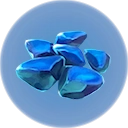
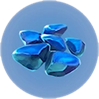
edited images and fixed first half or crafting page

diff --git a/pages/crafting.html b/pages/crafting.html
@@ -8,6 +8,7 @@
     <title>Crafting | Subnepedia</title>
     <link rel="stylesheet" href="/css/main.css">
     <link rel="stylesheet" href="/css/css-pages/crafting.css">
+    <link rel="stylesheet" href="/css/css-pages/items.css">
     <!-- Bootstrap Icons -->
     <script src="https://kit.fontawesome.com/1d56e9de16.js" crossorigin="anonymous"></script>
     <!-- Icon -->
@@ -48,46 +49,145 @@
     <!-- end -->
     <!-- Header -->
     <header class="crafting-header hero">
-        <h1 class="custom-font page-title hero-text">Crafting</h1>
+        <h1 class="custom-font page-header hero-text">Crafting</h1>
         <div class="color-overlay"></div>
     </header>
     <!-- End -->
 
     <!-- Overview -->
-    <section class="overview mt-2 mb-5">
+    <section class="overview mt-2 mb-3">
         <div class="container">
             <h2 class="custom-font page-title">Overview</h2>
             <div class="overview-text">
-                <p>Lorem ipsum dolor sit amet, consectetur adipiscing elit. Etiam eu turpis molestie, dictum est a,
-                    mattis
-                    tellus. Sed dignissim, metus nec fringilla accumsan, risus sem sollicitudin lacus, ut interdum
-                    tellus
-                    elit sed risus. Maecenas eget condimentum velit, sit amet feugiat lectus. Class aptent taciti
-                    sociosqu
-                    ad litora torquent per conubia nostra, per inceptos himenaeos. Praesent auctor purus luctus enim
-                    egestas, ac scelerisque ante pulvinar. Donec ut rhoncus ex. Suspendisse ac rhoncus nisl, eu tempor
-                    urna.
-                    Curabitur vel bibendum lorem. Morbi convallis convallis diam sit amet lacinia. Aliquam in elementum
-                    tellus.</p>
+                <p>In Subnautica, you can make a lot of different things. Everything from basic materials to food to
+                    electronics to vehicles can be included. It can be tough to remember or even find recipes when there
+                    is such a wide range of possibilities for crafting and creating new things.</p>
                 <br>
-                <p>Curabitur tempor quis eros tempus lacinia. Nam bibendum pellentesque quam a convallis. Sed ut
-                    vulputate
-                    nisi. Integer in felis sed leo vestibulum venenatis. Suspendisse quis arcu sem. Aenean feugiat ex eu
-                    vestibulum vestibulum. Morbi a eleifend magna. Nam metus lacus, porttitor eu mauris a, blandit
-                    ultrices
-                    nibh. Mauris sit amet magna non ligula vestibulum eleifend. Nulla varius volutpat turpis sed
-                    lacinia.
-                    Nam eget mi in purus lobortis eleifend. Sed nec ante dictum sem condimentum ullamcorper quis
-                    venenatis
-                    nisi. Proin vitae facilisis nisi, ac posuere leo.</p>
+                <p>Crafting Guide will ensure that you are familiar with practically all of the game's recipes. This
+                    will be your go-to resource for learning how to make the next thing you'll need for survival.</p>
                 <br>
-                <p>Nam pulvinar blandit velit, id condimentum diam faucibus at. Aliquam lacus nisi, sollicitudin at nisi
-                    nec, fermentum congue felis. Quisque mauris dolor, fringilla sed tincidunt ac, finibus non odio.
+                <p>Basic Materials, Sustenance, Vehicles, and Scanner Room are among the categories in which the things
+                    are classified. You need each of these categories and you must know how to put together anything you
+                    need from a specific one.
+
+                    Because you'll be using the Fabricator to make the majority of your items, it's better if you know
+                    how to make one first. To make a Fabricator, mix Titanium, Gold, and Table Coral Sample to make a
+                    Builder, which can then be transformed into a Fabricator. After that, you can concentrate on
+                    crafting food, tools, equipment, and machines using it.
                 </p>
             </div>
         </div>
     </section>
-
+    <section class="section-1 my-5">
+        <div class="container">
+            <h1 class="custom-font page-title materials-header">Materials</h1>
+            <p class="materials-text"> Subnautica contains a wide variety of materials, ranging from basic titanium to
+                rare and valuable diamonds. However, with the exception of mercury, most of the resources can be used in
+                crafting recipes.
+                Outcrops provide the next set of very useful materials (limestone, sandstone, basalt, shale, and so on).
+                These materials are helpful in the ways that they are used. They can be used to make electronic
+                components such as copper wire and computer chips, which are extremely useful.
+                Quartz is also useful since it can be used to manufacture glass, which can be utilized to make survival
+                tools and base building components.Lithium, diamonds, and a variety of other commodities can be found in
+                Subnautica. More information about these resources can be found below.</p>
+        </div>
+    </section>
+    <div class="section-2 my-5">
+        <div class="header">
+            <h1 class="custom-font page-title">Raw Materials</h1>
+            <p class="subheading">Minerals</p>
+        </div>
+        <div class="container my-5">
+            <div class="row-1 row">
+                <div class="item item-hover"><a href=""><img src="/images/Crafting-page/Minerals/Cave-Sulfur.png"
+                            alt="cave sulfur"></a></div>
+                <div class="item item-hover"><a href=""><img src="/images/Crafting-page/Minerals/Copper.png"
+                            alt="Copper"></a></div>
+                <div class="item item-hover"><a href=""><img src="/images/Crafting-page/Minerals/Crystalline.png"
+                            alt="Crystalline Sulfur"></a></div>
+                <div class="item item-hover"><a href=""><img src="/images/Crafting-page/Minerals/Diamond.png"
+                            alt="Diamond"></a></div>
+                <div class="item item-hover"><a href=""><img src="/images/Crafting-page/Minerals/Gold.png"
+                            alt="Gold"></a></div>
+                <div class="item item-hover"><a href=""><img src="/images/Crafting-page/Minerals/Ion.png"
+                            alt="Ion Cube"></a></div>
+            </div>
+            <div class="row-2 row">
+                <div class="item item-hover"><a href=""><img src="/images/Crafting-page/Minerals/Kyanite.png"
+                            alt="Kyanite"></a></div>
+                <div class="item item-hover"><a href=""><img src="/images/Crafting-page/Minerals/Lead.png"
+                            alt="Lead"></a></div>
+                <div class="item item-hover"><a href=""><img src="/images/Crafting-page/Minerals/Lithium.png"
+                            alt="Lithium"></a></div>
+                <div class="item item-hover"><a href=""><img src="/images/Crafting-page/Minerals/Magnetite.png"
+                            alt="Magnetite"></a></div>
+                <div class="item item-hover"><a href=""><img src="/images/Crafting-page/Minerals/Metal-Salvage.png"
+                            alt="Metal Salvage"></a></div>
+                <div class="item item-hover"><a href=""><img src="/images/Crafting-page/Minerals/Nickel.png"
+                            alt="Nickel"></a></div>
+            </div>
+            <div class="row-3 row">
+                <div class="item item-hover"><a href=""><img src="/images/Crafting-page/Minerals/Quartz.png"
+                            alt="Quartz"></a></div>
+                <div class="item item-hover"><a href=""><img src="/images/Crafting-page/Minerals/Ruby.png"
+                            alt="Ruby"></a></div>
+                <div class="item item-hover"><a href=""><img src="/images/Crafting-page/Minerals/Salt-Deposit.png"
+                            alt="Salt Deposit"></a></div>
+                <div class="item item-hover"><a href=""><img src="/images/Crafting-page/Minerals/Silver.png"
+                            alt="Silver"></a></div>
+                <div class="item item-hover"><a href=""><img src="/images/Crafting-page/Minerals/Titanium.png"
+                            alt="Titanium"></a></div>
+                <div class="item item-hover"><a href=""><img src="/images/Crafting-page/Minerals/Uraninite-Crystal.png"
+                            alt="Uranite Crystal"></a></div>
+            </div>
+            <div class="header">
+                <h1 class="custom-font page-title">Raw Materials</h1>
+                <p class="subheading">Biological</p>
+            </div>
+            <div class="row-4 row">
+                <div class="item item-hover"><a href=""><img src="/images/Crafting-page/Biological/Acid_Mushroom.png" alt="Acid Mushroom"></a></div>
+                <div class="item item-hover"><a href=""><img src="/images/Crafting-page/Biological/Bulb-Bush-Sample.png" alt="Bulb Bush Sample"></a></div>
+                <div class="item item-hover"><a href=""><img src="/images/Crafting-page/Biological/Coral-Tube-Sample.png" alt="Coral Tube Sample"></a></div>
+                <div class="item item-hover"><a href=""><img src="/images/Crafting-page/Biological/Creepvine-Sample.png" alt="Creep Vine Sample"></a></div>
+                <div class="item item-hover"><a href=""><img src="/images/Crafting-page/Biological/Creepvine-Seed-Cluster.png" alt="Creepvine Seed Cluster"></a></div>
+                <div class="item item-hover"><a href=""><img src="/images/Crafting-page/Biological/Deep-Shroom.png" alt="Deep Shroom"></a></div>
+                <div class="item item-hover"><a href=""><img src="/images/Crafting-page/Biological/Eye-Stalk-Seed.png" alt="Eye Stalk Seed"></a></div>
+            </div>
+            <div class="row-5 row mb-5"> 
+                <div class="item item-hover"><a href=""><img src="/images/Crafting-page/Biological/Fungal-Sample.png" alt="Fungal Sample"></a></div>  
+                <div class="item item-hover"><a href=""><img src="/images/Crafting-page/Biological/Gas-Pod.png" alt="Gas Pod"></a></div>
+                <div class="item item-hover"><a href=""><img src="/images/Crafting-page/Biological/Gel-Sack.png" alt="Gel Sack"></a></div>
+                <div class="item item-hover"><a href=""><img src="/images/Crafting-page/Biological/Ghost-Weed-Seed.png" alt="Ghost Week Seed"></a></div>
+                <div class="item item-hover"><a href=""><img src="/images/Crafting-page/Biological/Sea-Crown-Seed.png" alt="Sea Crown Seed"></a></div>
+                <div class="item item-hover"><a href=""><img src="/images/Crafting-page/Biological/Stalker-Tooth.png" alt="Stalker Tooth"></a></div>
+                <div class="item item-hover"><a href=""><img src="/images/Crafting-page/Biological/Table-Coral-Sample.png" alt="Table Coral Sample"></a></div>
+            </div>
+            <div class="header mt-2">
+                <h1 class="custom-font page-title">Basic Materials</h1>
+            </div>
+            <div class="row-6 row">
+                <div class="item item-hover"><a href=""><img src="/images/Crafting-page/Basic Materials/Bleach.png" alt="Bleach"></a></div>
+                <div class="item item-hover"><a href=""><img src="/images/Crafting-page/Basic Materials/Enameled_Glass.png" alt="Enameled Glass"></a></div>
+                <div class="item item-hover"><a href=""><img src="/images/Crafting-page/Basic Materials/Fiber_Mesh.png" alt="Fiber Mesh"></a></div>
+                 <div class="item item-hover"><a href=""><img src="/images/Crafting-page/Basic Materials/Glass.png" alt="Glass"></a></div>
+                <div class="item item-hover"><a href=""><img src="/images/Crafting-page/Basic Materials/Lubricant.png" alt="Lubricant"></a></div>
+                <div class="item item-hover"><a href=""><img src="/images/Crafting-page/Basic Materials/Plasteel_Ingot.png" alt="Plasteel Ingot"></a></div>
+                 <div class="item item-hover"><a href=""><img src="/images/Crafting-page/Basic Materials/Silicone_Rubber.png" alt="Silicone Rubber"></a></div>
+                <div class="item item-hover"><a href=""><img src="/images/Crafting-page/Basic Materials/Titanium.png" alt="Titanium"></a></div>
+                <div class="item item-hover"><a href=""><img src="/images/Crafting-page/Basic Materials/Titanium_Ingot.png" alt="Titanium Ingot"></a></div>
+            </div>
+             <div class="header mt-2">
+                <h1 class="custom-font page-title">Advanced Materials</h1>
+            </div>
+            <div class="row-7 row">
+                 <div class="item item-hover"><a href=""><img src="/images/Crafting-page/Advanced Materials/Aerogel.png" alt="Aerogel"></a></div>
+                 <div class="item item-hover"><a href=""><img src="/images/Crafting-page/Advanced Materials/Benzene.png" alt="Benzene"></a></div>
+                 <div class="item item-hover"><a href=""><img src="/images/Crafting-page/Advanced Materials/Hydrochloric_Acid.png" alt="Hydrochloric Acid"></a></div>
+                 <div class="item item-hover"><a href=""><img src="/images/Crafting-page/Advanced Materials//Polyaniline.png" alt="Polyaniline"></a></div>
+                 <div class="item item-hover"><a href=""><img src="/images/Crafting-page/Advanced Materials/Synthetic_Fibers.png" alt="Synthetic Fibers"></a></div>
+            </div>
+        </div>
+    </div>
     <!-- Footer -->
     <footer class="footer">
         <div class="container">

diff --git a/css/css-pages/crafting.css b/css/css-pages/crafting.css
@@ -2,40 +2,26 @@
   background-image: url("/images/Crafting-page/crafting-bg.png");
 }
 
-.crafting-header .container {
+.section-1 .container {
   display: flex;
+  flex-direction: column;
+  justify-content: center;
   align-items: center;
+  padding: 39px 95px;
+  gap: 40px;
 }
 
-.crafting .container{
-  display: flex;
-  justify-content: center;
-  align-items: center;
-}
-.materials {
-  font-size: 1.3rem;
+.section-1 .materials-text {
+  font-size: 1.2rem;
   text-align: justify;
-  padding: 60px 95px;
-  gap: 40px;
 }
-.crafting .list {
+.section-2 .header {
+  margin-top: 72px;
+}
+.section-2 .container {
   display: flex;
-  justify-content: center;
   align-items: center;
+  justify-content: center;
   flex-direction: column;
-  gap: 80px;
-}
-  
-.list div {
-  display: flex;
-  justify-content: center;
-  align-items: center;
-  gap: 40px;
-}
-.crafting .list img {
-  width: 120px;
-  height: 120px;
-  border-radius: 50%;
-  overflow: hidden;
-  border: 2px solid #5D5FEF;
+  gap: 30px;
 }

diff --git a/pages/gameplay/survival.html b/pages/gameplay/survival.html
@@ -8,7 +8,7 @@
     <title>Survival | Subnepedia</title>
     <link rel="stylesheet" href="/css/main.css">
     <link rel="stylesheet" href="/css/css-pages/gameplay/survival.css">
-    <link rel="stylesheet" href="/css/css-pages/world/items.css">
+    <link rel="stylesheet" href="/css/css-pages/items.css">
     <link rel="stylesheet" href="/css/css-pages/gameplay/gameplay.css">
     <!-- Icons -->
     <script src="https://kit.fontawesome.com/1d56e9de16.js" crossorigin="anonymous"></script>

diff --git a/pages/world/fauna.html b/pages/world/fauna.html
@@ -8,7 +8,7 @@
     <title>Subnepedia | Fauna</title>
     <link rel="stylesheet" href="/css/main.css">
     <link rel="stylesheet" href="/css/css-pages/world/fauna.css">
-    <link rel="stylesheet" href="/css/css-pages/world/items.css">
+    <link rel="stylesheet" href="/css/css-pages/items.css">
     <!-- Icons -->
     <script src="https://kit.fontawesome.com/1d56e9de16.js" crossorigin="anonymous"></script>
     <!-- Icon -->

diff --git a/pages/world/flora.html b/pages/world/flora.html
@@ -8,7 +8,7 @@
     <title>Flora | Subnepedia</title>
     <link rel="stylesheet" href="/css/main.css">
     <link rel="stylesheet" href="/css/css-pages/world/flora.css">
-    <link rel="stylesheet" href="/css/css-pages/world/items.css">
+    <link rel="stylesheet" href="/css/css-pages/items.css">
     <!-- Icons -->
     <script src="https://kit.fontawesome.com/1d56e9de16.js" crossorigin="anonymous"></script>
     <!-- Icon -->

diff --git a/css/css-pages/gameplay/survival.css b/css/css-pages/gameplay/survival.css
@@ -51,14 +51,6 @@
     font-weight: 600;
 }
 
-.row {
-    display: flex;
-    flex-direction: row;
-    justify-content: center;
-    align-items: center;
-    gap: 50px;
-}
-
 .section-2,
 .section-3 {
     display: flex;

diff --git a/css/css-pages/items.css b/css/css-pages/items.css
@@ -20,3 +20,10 @@
 .item-hover:hover{
     transform: scale(1.1);
 }
+.row {
+    display: flex;
+    flex-direction: row;
+    justify-content: center;
+    align-items: center;
+    gap: 50px;
+}

diff --git a/css/main.css b/css/main.css
@@ -272,7 +272,7 @@ img {
 }
 
 .overview-text {
-    font-size: 1.3rem;
+    font-size: 1.2rem;
     text-align: justify;
 }
 
